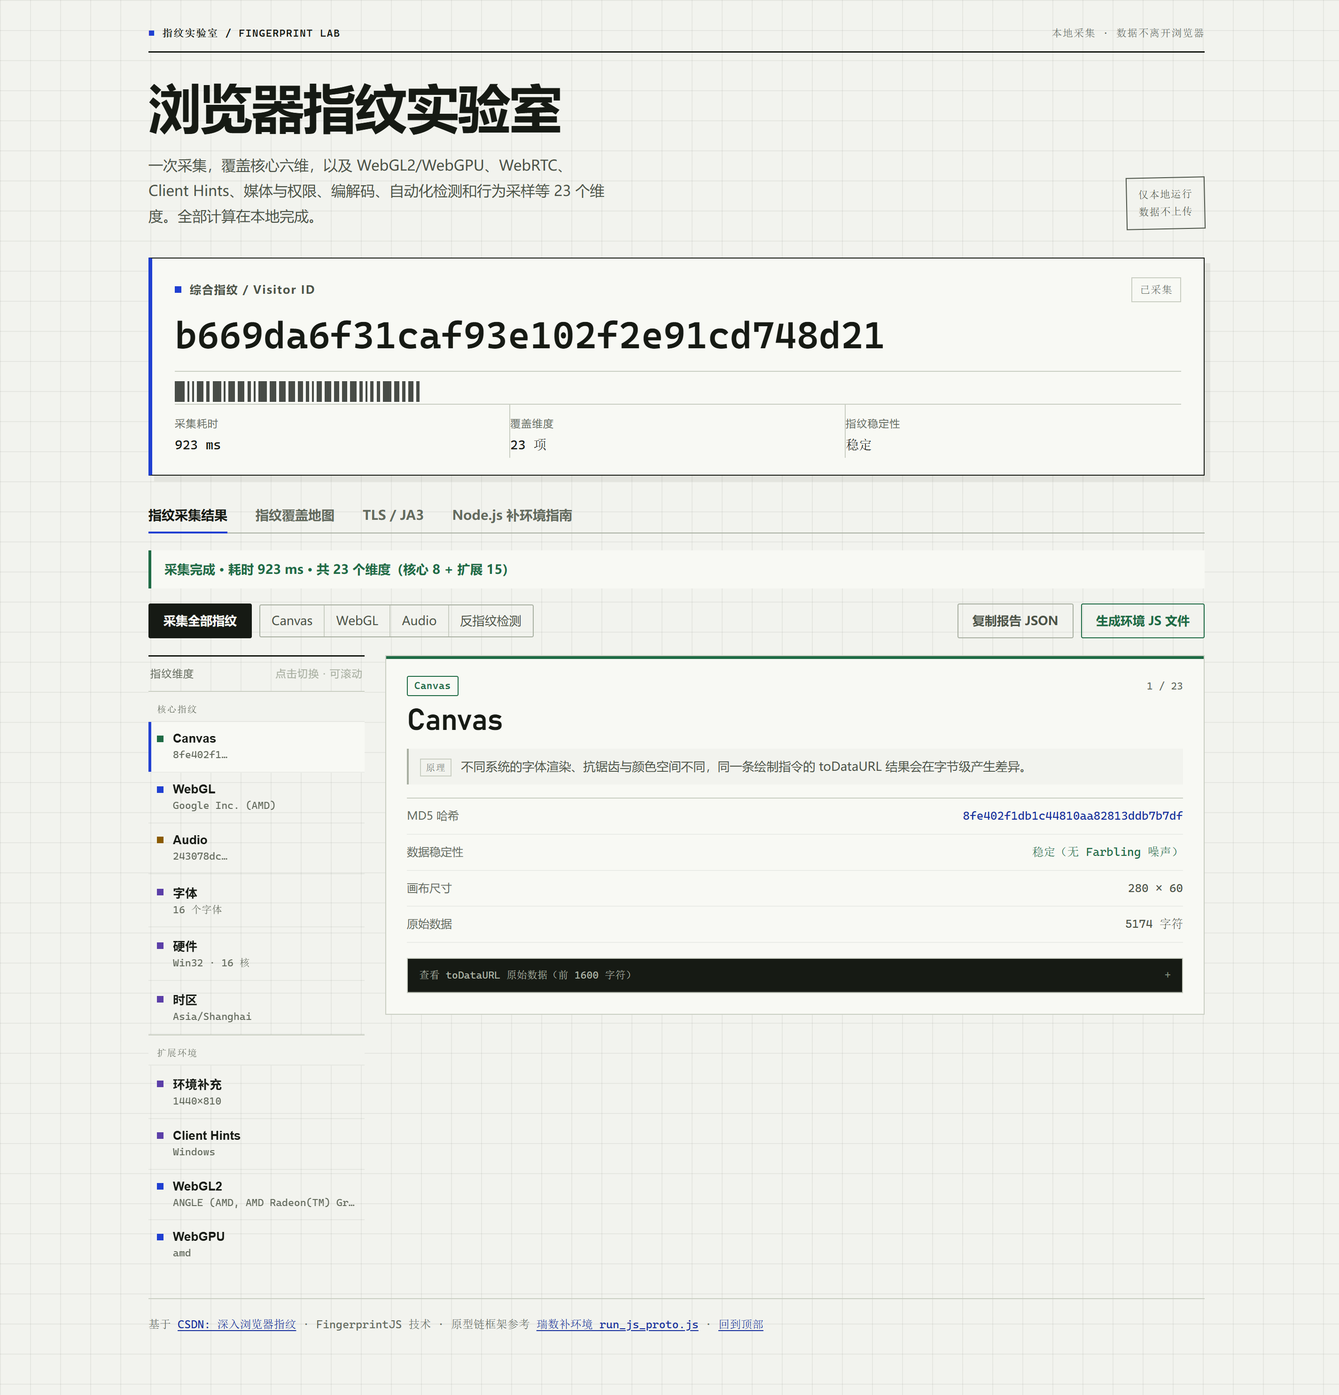
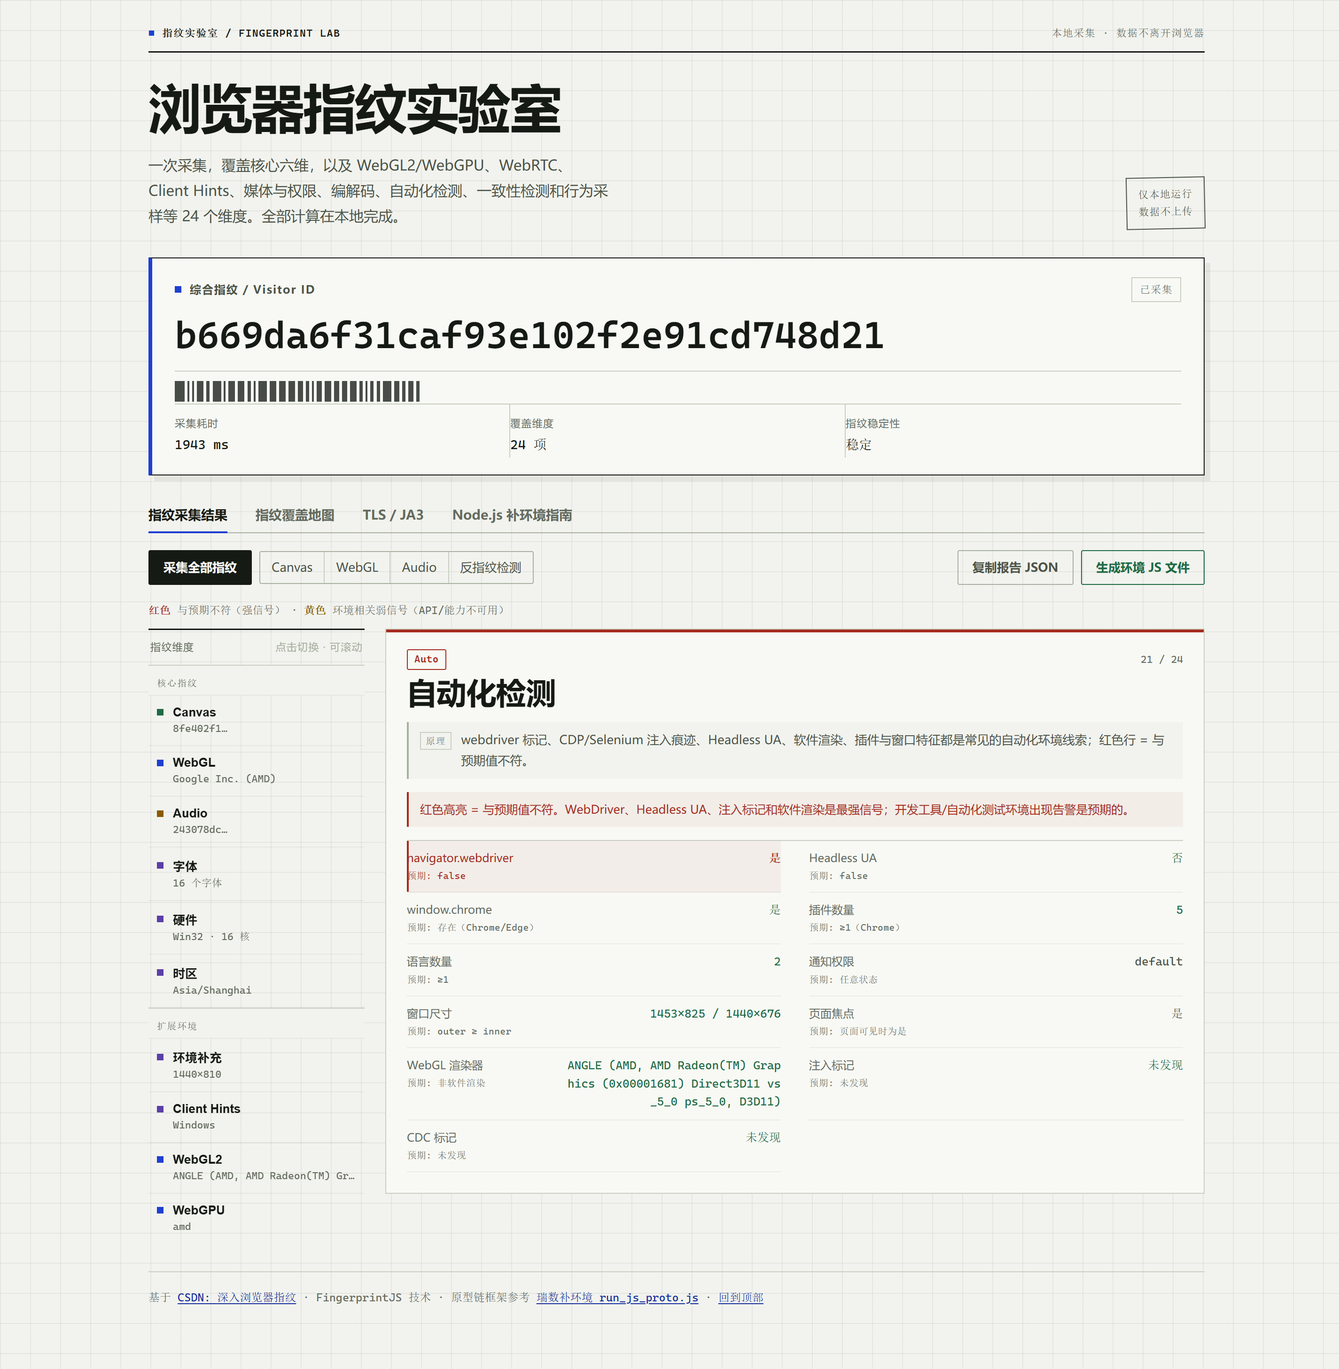
feat(ui): 增加一致性检测与弱信号预期值
- 新增一致性检测：UA vs platform/Client Hints/语言/屏幕/WebGL 渲染器/时区偏移
- 检测项统一显示预期值；强不一致红色告警，可选 API 缺失黄色弱告警
- TLS 面板补充 TLS 版本/HTTP 协议预期值
- 页面维度扩展到 24，更新覆盖地图、README 与截图

diff --git a/test_fp.html b/test_fp.html
@@ -145,6 +145,12 @@
   #status.error   { display: block; border-left-color: var(--bad); color: var(--bad); }
 
   /* ===== Results: dimension navigator + detail ===== */
+  .fp-legend {
+    margin: 0 0 10px; font-family: var(--mono); font-size: 11.5px;
+    color: var(--ink-3); line-height: 1.6;
+  }
+  .fp-legend .lg-bad { color: var(--bad); font-weight: 700; }
+  .fp-legend .lg-warn { color: var(--warn); font-weight: 700; }
   .results-shell {
     display: grid; grid-template-columns: 230px minmax(0,1fr);
     gap: 22px; align-items: start;
@@ -533,7 +539,7 @@
     <div class="masthead-main">
       <div>
         <h1>浏览器指纹实验室</h1>
-        <p class="lede">一次采集，覆盖核心六维，以及 WebGL2/WebGPU、WebRTC、Client Hints、媒体与权限、编解码、自动化检测和行为采样等 23 个维度。全部计算在本地完成。</p>
+        <p class="lede">一次采集，覆盖核心六维，以及 WebGL2/WebGPU、WebRTC、Client Hints、媒体与权限、编解码、自动化检测、一致性检测和行为采样等 24 个维度。全部计算在本地完成。</p>
       </div>
       <div class="stamp">仅本地运行<br>数据不上传</div>
     </div>
@@ -598,6 +604,7 @@
 
   <!-- ====== Tab1: 指纹采集结果 ====== -->
   <div id="tab-collect-content">
+    <div class="fp-legend"><span class="lg-bad">红色</span> 与预期不符（强信号） · <span class="lg-warn">黄色</span> 环境相关弱信号（API/能力不可用）</div>
     <div class="results-shell">
       <nav class="fp-nav" id="fp-nav" aria-label="指纹维度导航">
         <div class="fp-nav-head"><span>指纹维度</span><span class="fp-nav-hint">点击切换 · 可滚动</span></div>
@@ -700,6 +707,7 @@
           <ul>
             <li>鼠标轨迹、速度、点击/键击 · 本页行为采样</li>
             <li>webdriver / CDP / Headless · 预期值 + 红色告警</li>
+            <li>UA / CH / 平台 / 时区一致性检测</li>
             <li>滑块轨迹 · 案例 09</li>
             <li>数美 / 顶象 / 极验设备 SDK · 案例 06</li>
             <li>App 侧 native 签名与设备信息 · 案例 16</li>
@@ -1356,20 +1364,22 @@ window.probeTls = async function() {
     if (!res.ok) throw new Error('HTTP ' + res.status);
     const data = await res.json();
     const fmt = function(v) { return v == null || v === '' ? '不可用' : v; };
+    const tlsVersion = data.tlsVersion || '';
+    const tlsBad = /TLSv1\.[01]|SSLv3/i.test(tlsVersion);
+    const tlsOk = /TLSv1\.[23]/i.test(tlsVersion);
+    const httpWarn = /HTTP\/1\.1/i.test(data.httpProtocol || '');
     const rows = [
-      ['TLS 版本', fmt(data.tlsVersion)],
-      ['加密套件', fmt(data.tlsCipher)],
-      ['HTTP 协议', fmt(data.httpProtocol)],
-      ['Client RTT', data.clientTcpRtt == null ? '不可用' : data.clientTcpRtt + ' ms'],
-      ['ASN', data.asn == null ? '不可用' : data.asn + (data.asOrganization ? ' · ' + data.asOrganization : '')],
-      ['边缘节点', fmt(data.colo)],
-      ['国家/地区', fmt(data.country)],
-      ['JA3', fmt(data.ja3Hash)],
-      ['JA4', fmt(data.ja4)]
+      {k:'TLS 版本', v:fmt(data.tlsVersion), expected:'TLS 1.3 / 1.2', b:tlsBad, g:tlsOk},
+      {k:'加密套件', v:fmt(data.tlsCipher)},
+      {k:'HTTP 协议', v:fmt(data.httpProtocol), expected:'HTTP/2 或 HTTP/3', w:httpWarn},
+      {k:'Client RTT', v:data.clientTcpRtt == null ? '不可用' : data.clientTcpRtt + ' ms'},
+      {k:'ASN', v:data.asn == null ? '不可用' : data.asn + (data.asOrganization ? ' · ' + data.asOrganization : '')},
+      {k:'边缘节点', v:fmt(data.colo)},
+      {k:'国家/地区', v:fmt(data.country)},
+      {k:'JA3', v:fmt(data.ja3Hash), expected:'Bot Management 或本地工具'},
+      {k:'JA4', v:fmt(data.ja4), expected:'Bot Management'}
     ];
-    el.innerHTML = `<dl class="detail-rows">${rows.map(function(row) {
-      return `<div class="drow"><dt>${escapeHtml(row[0])}</dt><dd>${escapeHtml(row[1])}</dd></div>`;
-    }).join('')}</dl><p class="tls-hint">${escapeHtml(data.note || '')}</p>`;
+    el.innerHTML = `<dl class="detail-rows">${rows.map(rowHtml).join('')}</dl><p class="tls-hint">${escapeHtml(data.note || '')}</p>`;
   } catch (e) {
     el.innerHTML = '<p class="tls-fallback">边缘 API 不可用（静态托管 / 本地 http.server 都会这样）。请使用右侧的本地 JA3 捕获工具；部署到 Cloudflare Workers 后，此按钮会返回真实 TLS 元数据。</p>';
   }
@@ -1643,6 +1653,121 @@ function fmtBytes(value) {
   return (Math.round(n * 100) / 100) + ' ' + units[i];
 }
 
+function makeConsistencyDim(c, s) {
+  s = s || {};
+  const ua = navigator.userAgent || '';
+  const platform = navigator.platform || '';
+  const ch = s.clientHints || {};
+  const webglBasic = c.webglBasic || '';
+  const params = {};
+  webglBasic.split('|').forEach(function(item) {
+    const idx = item.indexOf(':');
+    if (idx > 0) params[item.slice(0, idx)] = item.slice(idx + 1);
+  });
+  const renderer = params.unmaskedRenderer || params.renderer || '';
+  const rows = [];
+  const add = function(key, value, expected, status) {
+    rows.push({
+      k: key, v: value, expected: expected,
+      b: status === 'bad' ? 1 : 0,
+      w: status === 'warn' ? 1 : 0,
+      g: status === 'ok' ? 1 : 0
+    });
+  };
+
+  // UA vs navigator.platform
+  let expectedPlatform = null;
+  if (/Windows/i.test(ua)) expectedPlatform = 'Win32';
+  else if (/Macintosh|Mac OS X/i.test(ua)) expectedPlatform = 'MacIntel';
+  else if (/Android/i.test(ua)) expectedPlatform = 'Linux';
+  else if (/Linux/i.test(ua)) expectedPlatform = 'Linux';
+  else if (/iPhone/i.test(ua)) expectedPlatform = 'iPhone';
+  else if (/iPad/i.test(ua)) expectedPlatform = 'iPad';
+  if (expectedPlatform) {
+    const ok = expectedPlatform === 'Linux'
+      ? /^Linux/i.test(platform)
+      : platform === expectedPlatform;
+    add('UA vs navigator.platform', platform + ' / 期望 ' + expectedPlatform, expectedPlatform, ok ? '' : 'bad');
+  }
+
+  // UA vs Client Hints platform / brands
+  if (ch.available && ch.platform) {
+    const expectedCH = /Windows/i.test(ua) ? 'Windows'
+      : /Macintosh|Mac OS X/i.test(ua) ? 'macOS'
+      : /Android/i.test(ua) ? 'Android'
+      : /Linux/i.test(ua) ? 'Linux'
+      : /iPhone|iPad/i.test(ua) ? 'iOS' : null;
+    if (expectedCH) {
+      add('UA vs Client Hints 平台', ch.platform, expectedCH, ch.platform === expectedCH ? '' : 'bad');
+    }
+  } else if (ch.available === false) {
+    const chromiumUA = /Chrome\//.test(ua) || /Edg\//.test(ua);
+    add('Client Hints', '不可用', chromiumUA ? 'Chromium 可用' : '不适用（非 Chromium）', chromiumUA ? 'warn' : '');
+  }
+  if (ch.available && /Chrome\//.test(ua)) {
+    const brands = ch.brands || '';
+    add('UA vs Client Hints 品牌', brands || '—', '包含 Chrome/Chromium', /Chrome|Chromium/i.test(brands) ? '' : 'bad');
+  }
+  if (ch.available && ch.mobile === false && (navigator.maxTouchPoints || 0) > 0) {
+    add('Client Hints mobile vs 触点数', 'mobile=false / touch=' + navigator.maxTouchPoints, '移动标记与触点数一致', 'warn');
+  }
+
+  // language ordering
+  const languages = Array.isArray(navigator.languages) ? navigator.languages : [];
+  if (navigator.language && languages.length) {
+    add('language vs languages[0]', navigator.language + ' / ' + languages[0], '相同', navigator.language === languages[0] ? '' : 'bad');
+  }
+
+  // screen availability vs resolution
+  const screenW = (typeof screen !== 'undefined' && screen.width) || 0;
+  const screenH = (typeof screen !== 'undefined' && screen.height) || 0;
+  const availW = (typeof screen !== 'undefined' && screen.availWidth) || 0;
+  const availH = (typeof screen !== 'undefined' && screen.availHeight) || 0;
+  const screenBad = availW > screenW || availH > screenH;
+  add('屏幕可用区域 vs 分辨率', availW + '×' + availH + ' / ' + screenW + '×' + screenH, '可用区域 ≤ 分辨率', screenBad ? 'bad' : '');
+
+  // WebGL renderer vs UA platform
+  if (renderer) {
+    let glOk = true;
+    if (/Windows/i.test(ua) && /Apple|Metal/i.test(renderer)) glOk = false;
+    if (/Macintosh|Mac OS X/i.test(ua) && /Direct3D|D3D11|D3D9/i.test(renderer)) glOk = false;
+    if (/Linux/i.test(ua) && !/Android/i.test(ua) && /Direct3D|D3D11|D3D9/i.test(renderer)) glOk = false;
+    add('WebGL 渲染器 vs UA 平台', renderer, '与平台一致', glOk ? '' : 'bad');
+  }
+
+  // Intl timezone vs Date offset
+  try {
+    const tz = Intl.DateTimeFormat().resolvedOptions().timeZone;
+    const parts = new Intl.DateTimeFormat('en-US', { timeZone: tz, timeZoneName: 'longOffset' }).formatToParts(new Date());
+    const name = (parts.find(function(p) { return p.type === 'timeZoneName'; }) || {}).value || '';
+    const match = name.match(/GMT([+-])(\d{1,2})(?::?(\d{2}))?/);
+    let intlOffset = null;
+    if (match) {
+      intlOffset = (match[1] === '-' ? -1 : 1) * (parseInt(match[2], 10) * 60 + parseInt(match[3] || '0', 10));
+    } else if (name === 'GMT' || name === 'UTC') {
+      intlOffset = 0;
+    }
+    if (intlOffset != null) {
+      const actual = -new Date().getTimezoneOffset();
+      add('时区 vs UTC 偏移', tz + ' / ' + actual + ' min', 'Intl 偏移 ' + intlOffset + ' min', actual === intlOffset ? '' : 'bad');
+    }
+  } catch (error) { /* ignore */ }
+
+  const red = rows.filter(function(row) { return row.b; }).length;
+  const amber = rows.filter(function(row) { return row.w; }).length;
+  return {
+    id: 'consistency', group: '对抗与行为', label: '一致性检测', tag: 'Consistency', cat: 'detect',
+    alert: red > 0,
+    summary: red ? (red + ' 项不一致') : amber ? (amber + ' 项弱告警') : '一致',
+    principle: '把 UA、平台、Client Hints、语言、屏幕、WebGL 渲染器与时区偏移交叉比对；强不一致常见于 UA 伪装、补环境或代理，弱告警只提示环境差异。',
+    note: red
+      ? '红色 = 强不一致（UA / CH / 渲染器 / 时区互相矛盾）；黄色 = 环境相关的弱信号。'
+      : (amber ? '黄色 = 环境相关的弱信号，不一定是异常。' : ''),
+    two: true,
+    rows: rows
+  };
+}
+
 function makeSupplementalDims(s) {
   const dims = [];
 
@@ -1660,7 +1785,7 @@ function makeSupplementalDims(s) {
       {k:'平台版本', v:s.clientHints.platformVersion || '—'},
       {k:'完整版本', v:s.clientHints.uaFullVersion || '—'},
       {k:'WOW64', v:s.clientHints.wow64 == null ? '—' : yesNo(s.clientHints.wow64)}
-    ] : [{k:'状态', v:'不可用（浏览器不支持 userAgentData）', w:1}],
+    ] : [{k:'状态', v:'不可用（浏览器不支持 userAgentData）', expected:'Chromium 可用', w:1}],
     extra: s.clientHints && s.clientHints.fullVersionList && s.clientHints.fullVersionList.length
       ? `<div class="font-chips">${s.clientHints.fullVersionList.map(function(v){return `<span class="font-chip">${escapeHtml(v)}</span>`;}).join('')}</div>` : ''
   });
@@ -1683,7 +1808,7 @@ function makeSupplementalDims(s) {
       {k:'颜色附件', v:s.webgl2.maxColorAttachments},
       {k:'MSAA 采样', v:s.webgl2.maxSamples},
       {k:'扩展数量', v:s.webgl2.extensionCount}
-    ] : [{k:'状态', v:'不可用（浏览器未提供 WebGL2）', w:1}]
+    ] : [{k:'状态', v:'不可用（浏览器未提供 WebGL2）', expected:'可用', w:1}]
   });
 
   // WebGPU
@@ -1692,7 +1817,7 @@ function makeSupplementalDims(s) {
     summary: s.webgpu && s.webgpu.adapter ? (s.webgpu.vendor || 'adapter 可用') : (s.webgpu && s.webgpu.available ? '无 adapter' : '不可用'),
     principle: 'WebGPU 暴露 GPU adapter 的厂商、架构、特性与限制；是 WebGL 之外更现代的图形能力指纹。',
     rows: s.webgpu && s.webgpu.available ? [
-      {k:'adapter', v:s.webgpu.adapter ? '可用' : '未返回', g:!!s.webgpu.adapter, w:!s.webgpu.adapter},
+      {k:'adapter', v:s.webgpu.adapter ? '可用' : '未返回', expected:'可用', g:!!s.webgpu.adapter, w:!s.webgpu.adapter},
       {k:'厂商', v:s.webgpu.vendor || '—'},
       {k:'架构', v:s.webgpu.architecture || '—'},
       {k:'设备', v:s.webgpu.device || '—'},
@@ -1701,7 +1826,7 @@ function makeSupplementalDims(s) {
       {k:'最大纹理 2D', v:s.webgpu.maxTextureDimension2D || '—'},
       {k:'最大 Buffer', v:fmtBytes(s.webgpu.maxBufferSize)},
       {k:'Workgroup X', v:s.webgpu.maxComputeWorkgroupSizeX || '—'}
-    ] : [{k:'状态', v:'不可用（浏览器不支持 WebGPU）', w:1}],
+    ] : [{k:'状态', v:'不可用（浏览器不支持 WebGPU）', expected:'可用', w:1}],
     extra: s.webgpu && s.webgpu.features && s.webgpu.features.length
       ? `<div class="font-chips">${s.webgpu.features.map(function(v){return `<span class="font-chip">${escapeHtml(v)}</span>`;}).join('')}</div>` : ''
   });
@@ -1713,7 +1838,7 @@ function makeSupplementalDims(s) {
     principle: 'ICE 候选会暴露本地网络、容器地址或 mDNS 名称；在代理/VPN 场景中常用于交叉验证真实网络环境。',
     note: '本页只使用空 STUN 配置，不连接外部服务器；候选地址仅在本地展示。',
     rows: s.webrtc && s.webrtc.available ? [
-      {k:'候选数量', v:s.webrtc.count},
+      {k:'候选数量', v:s.webrtc.count, expected:'≥1 个候选', w:s.webrtc.count === 0},
       {k:'候选类型', v:Object.keys(s.webrtc.types || {}).map(function(k){return k + '×' + s.webrtc.types[k];}).join(', ') || '—'},
       {k:'错误', v:s.webrtc.error || '—', w:!!s.webrtc.error}
     ] : [{k:'状态', v:'不可用（浏览器不支持 RTCPeerConnection）', w:1}],
@@ -1728,7 +1853,7 @@ function makeSupplementalDims(s) {
     summary: s.mediaDevices && s.mediaDevices.available ? ((s.mediaDevices.total || 0) + ' 个设备') : '不可用',
     principle: '摄像头、麦克风、扬声器的数量与类型反映外设配置；设备标签通常需要用户授权后才能读取。',
     rows: s.mediaDevices && s.mediaDevices.available ? [
-      {k:'设备总数', v:s.mediaDevices.total || 0},
+      {k:'设备总数', v:s.mediaDevices.total || 0, expected:'≥1 个设备', w:(s.mediaDevices.total || 0) === 0},
       {k:'音频输入', v:mediaCounts.audioinput || 0},
       {k:'音频输出', v:mediaCounts.audiooutput || 0},
       {k:'视频输入', v:mediaCounts.videoinput || 0},
@@ -1744,7 +1869,7 @@ function makeSupplementalDims(s) {
     summary: s.speech && s.speech.available ? ((s.speech.count || 0) + ' 个语音') : '不可用',
     principle: 'TTS 语音列表由操作系统与浏览器共同决定；语音名称、语言和本地/在线属性可以区分平台。',
     rows: s.speech && s.speech.available ? [
-      {k:'语音数量', v:s.speech.count || 0},
+      {k:'语音数量', v:s.speech.count || 0, expected:'≥1 个语音', w:(s.speech.count || 0) === 0},
       {k:'本地语音', v:s.speech.localCount || 0},
       {k:'语言数量', v:(s.speech.languages || []).length},
       {k:'语言', v:(s.speech.languages || []).slice(0, 10).join(', ') || '—'}
@@ -2070,14 +2195,15 @@ window.runTest = async function() {
       console.warn('[supplemental] collection failed:', error);
     }
     const supplementalDims = supplemental ? makeSupplementalDims(supplemental) : [];
+    const consistencyDim = makeConsistencyDim(c, supplemental || {});
     const behaviorDim = makeBehaviorDim();
-    const dims = baseDims.concat(supplementalDims, [detectDim, behaviorDim]);
+    const dims = baseDims.concat(supplementalDims, [detectDim, consistencyDim, behaviorDim]);
     const totalMs = (performance.now()-t0).toFixed(0);
 
     $('metaTime').textContent = totalMs + ' ms';
     $('metaDims').textContent = dims.length + ' 项';
     renderDims(dims, window._activeDim || 'canvas');
-    setStatus(`采集完成 · 耗时 ${totalMs} ms · 共 ${dims.length} 个维度（核心 ${baseDims.length + 1} + 扩展 ${supplementalDims.length + 1}）`, 'done');
+    setStatus(`采集完成 · 耗时 ${totalMs} ms · 共 ${dims.length} 个维度（核心 ${baseDims.length + 1} + 扩展 ${supplementalDims.length + 2}）`, 'done');
     window._lastReport = {
       visitorId,
       components: c,

diff --git a/README.md b/README.md
@@ -29,8 +29,8 @@
 
 - **六大核心维度**（`all_fp.js`）：Canvas（基础 + 高级）、WebGL（硬件参数 + 着色器像素）、
   Audio、字体、硬件、时区，浏览器与 Node.js 双环境通用
-- **23 个维度全面覆盖**：核心六维 + WebGL2/WebGPU、WebRTC、Client Hints、媒体/语音、
-  权限/存储、电池/传感器、编解码/DRM、CSS/DOM、JS 引擎、扩展字体/Canvas、自动化检测、行为采样
+- **24 个维度全面覆盖**：核心六维 + WebGL2/WebGPU、WebRTC、Client Hints、媒体/语音、
+  权限/存储、电池/传感器、编解码/DRM、CSS/DOM、JS 引擎、扩展字体/Canvas、自动化检测、一致性检测、行为采样
 - **可视化采集页面**（`test_fp.html`）：浏览器打开 → 自动采集 → 分组维度导航 → 一键复制/下载报告
 - **维度导航 + 原理说明**：每个维度附一条技术原理；「指纹覆盖地图」说明 L1–L6 分层与边界
 - **TLS / JA3 记录**：Workers 边缘 `/api/tls` 返回 TLS 版本/套件/HTTP 协议；本地
@@ -214,7 +214,7 @@ const result = await fp.getFingerprint();
 4. **toString 伪装** — `Function.prototype.toString` 劫持，返回 `[native code]`
 5. **验证** — 浏览器 vs Node 逐项对比（`test_fp_node.js`）
 
-## 🧩 扩展指纹覆盖（23 个维度）
+## 🧩 扩展指纹覆盖（24 个维度）
 
 页面采集结果按三组展示；**扩展项不进入 core visitorId**，避免破坏浏览器 ↔ Node 的一致性。
 
@@ -226,10 +226,11 @@ const result = await fp.getFingerprint();
 | 扩展环境 | 权限与存储 / 电池与传感器 | Permissions 状态、配额、localStorage；电量、传感器构造器、手柄 |
 | 扩展环境 | 编解码与 DRM / CSS·DOM / JS 引擎 | H.264/HEVC/AV1、Widevine/PlayReady；媒体查询、CSS.supports；Math/Intl/错误栈 |
 | 扩展环境 | 扩展字体 / 扩展 Canvas | 94 个候选字体的安装列表；渐变文字、emoji、混合模式、evenodd 画布 |
-| 对抗与行为 | 反指纹检测 / 自动化检测 | Farbling、WebGL 拦截、UA 精简；webdriver、CDP 标记、Headless UA |
+| 对抗与行为 | 反指纹检测 / 自动化检测 / 一致性检测 | Farbling、WebGL 拦截、UA 精简；webdriver、CDP 标记、Headless UA；UA vs CH/平台/时区交叉校验 |
 | 对抗与行为 | 行为采样 | 指针轨迹长度、平均/峰值速度、点击、按键、触摸、滚动（仅本地统计） |
 
-检测类维度（自动化检测、反指纹检测、WebGL 软件渲染）会为每行标注**预期值**；实际值与预期不符时整行红色高亮，左侧导航同时汇总异常数量。
+检测类维度（自动化检测、反指纹检测、一致性检测、WebGL 软件渲染）会为每行标注**预期值**：
+实际值与预期不符时整行**红色**高亮，左侧导航汇总异常数量；可选 API/能力缺失等环境相关差异用**黄色**弱告警。
 
 ### 边界（不是“遗漏”，是采集位置不同）
 

diff --git a/README_en.md b/README_en.md
@@ -29,9 +29,9 @@ so headless code emits a fingerprint identical to your real browser.
 
 - **Six core dimensions** (`all_fp.js`): Canvas (basic + advanced), WebGL (hardware params + shader pixels),
   Audio, Fonts, Hardware, Timezone — works in both browser and Node.js
-- **23-dimension coverage**: core six plus WebGL2/WebGPU, WebRTC, Client Hints, media/voice,
+- **24-dimension coverage**: core six plus WebGL2/WebGPU, WebRTC, Client Hints, media/voice,
   permissions/storage, battery/sensors, codecs/DRM, CSS/DOM, JS engine, expanded fonts/Canvas,
-  automation markers and behavior sampling
+  automation markers, consistency checks and behavior sampling
 - **Visual collection page** (`test_fp.html`): open in browser → auto-collect → grouped dimension nav →
   one-click copy/download of the report
 - **Dimension nav + principles**: each dimension explains its mechanism; a coverage map documents the L1–L6 layers
@@ -206,7 +206,7 @@ Case overview:
 4. **toString camouflage** — hijack `Function.prototype.toString` to return `[native code]`
 5. **Verify** — browser vs Node comparison, dimension by dimension (`test_fp_node.js`)
 
-## Expanded fingerprint coverage (23 dimensions)
+## Expanded fingerprint coverage (24 dimensions)
 
 Results are grouped in the UI. Supplemental signals are deliberately **not** part of the core
 `visitorId`, so the browser ↔ Node parity demo remains stable.
@@ -217,12 +217,12 @@ Results are grouped in the UI. Supplemental signals are deliberately **not** par
 | Environment | UA-screen-DPR-network supplement, Client Hints, WebGL2, WebGPU |
 | Environment | WebRTC ICE, media devices, speech voices, permissions/storage, battery/sensors |
 | Environment | codecs/DRM, CSS/DOM media features, JS-engine quirks, expanded fonts (94), extra Canvas renders |
-| Adversarial | Farbling / WebGL interception / UA reduction, automation markers (webdriver/CDP/Headless) |
+| Adversarial | Farbling / WebGL interception / UA reduction, automation markers (webdriver/CDP/Headless), UA-vs-CH/platform/timezone consistency |
 | Behavior | local-only pointer path length, average/peak speed, clicks, keys, touches, scrolls |
 
-Detection dimensions (automation, anti-fingerprinting, WebGL software rendering) annotate an
-**expected value** on every row; a mismatch highlights the row in red and the left nav summarizes
-the number of anomalies.
+Detection dimensions (automation, anti-fingerprinting, consistency, WebGL software rendering)
+annotate an **expected value** on every row; a strong mismatch highlights the row in red and the
+left nav summarizes the number of anomalies. Optional API/capability gaps use amber warnings.
 
 Boundaries (different collection points, not missing features):
 
